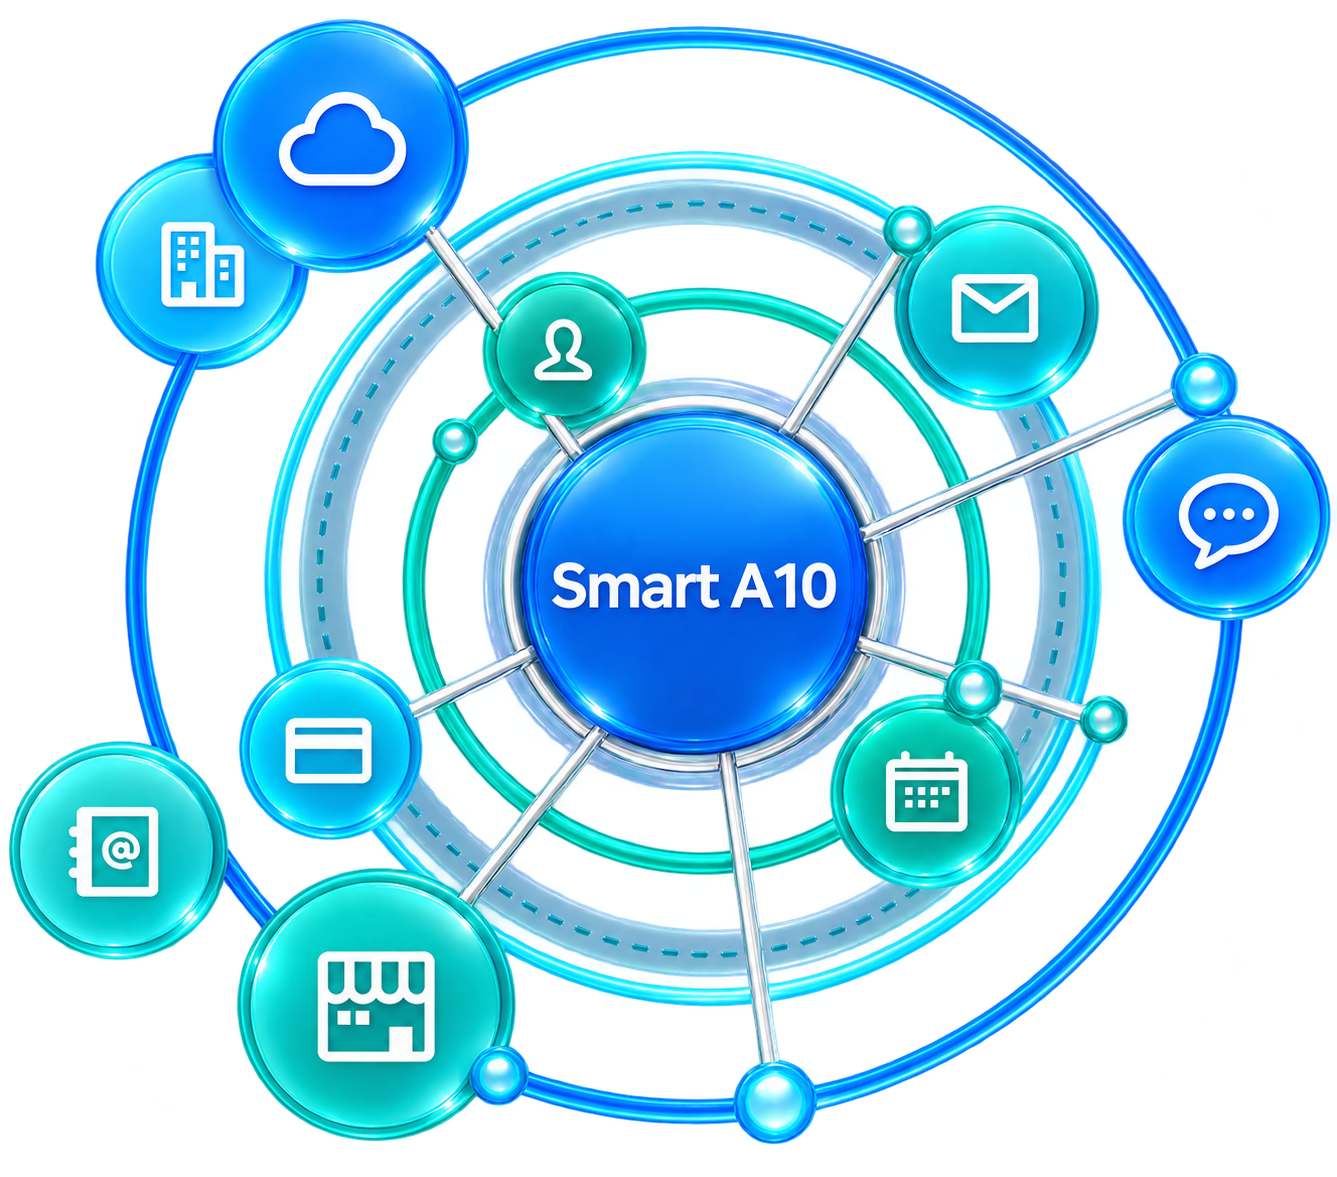
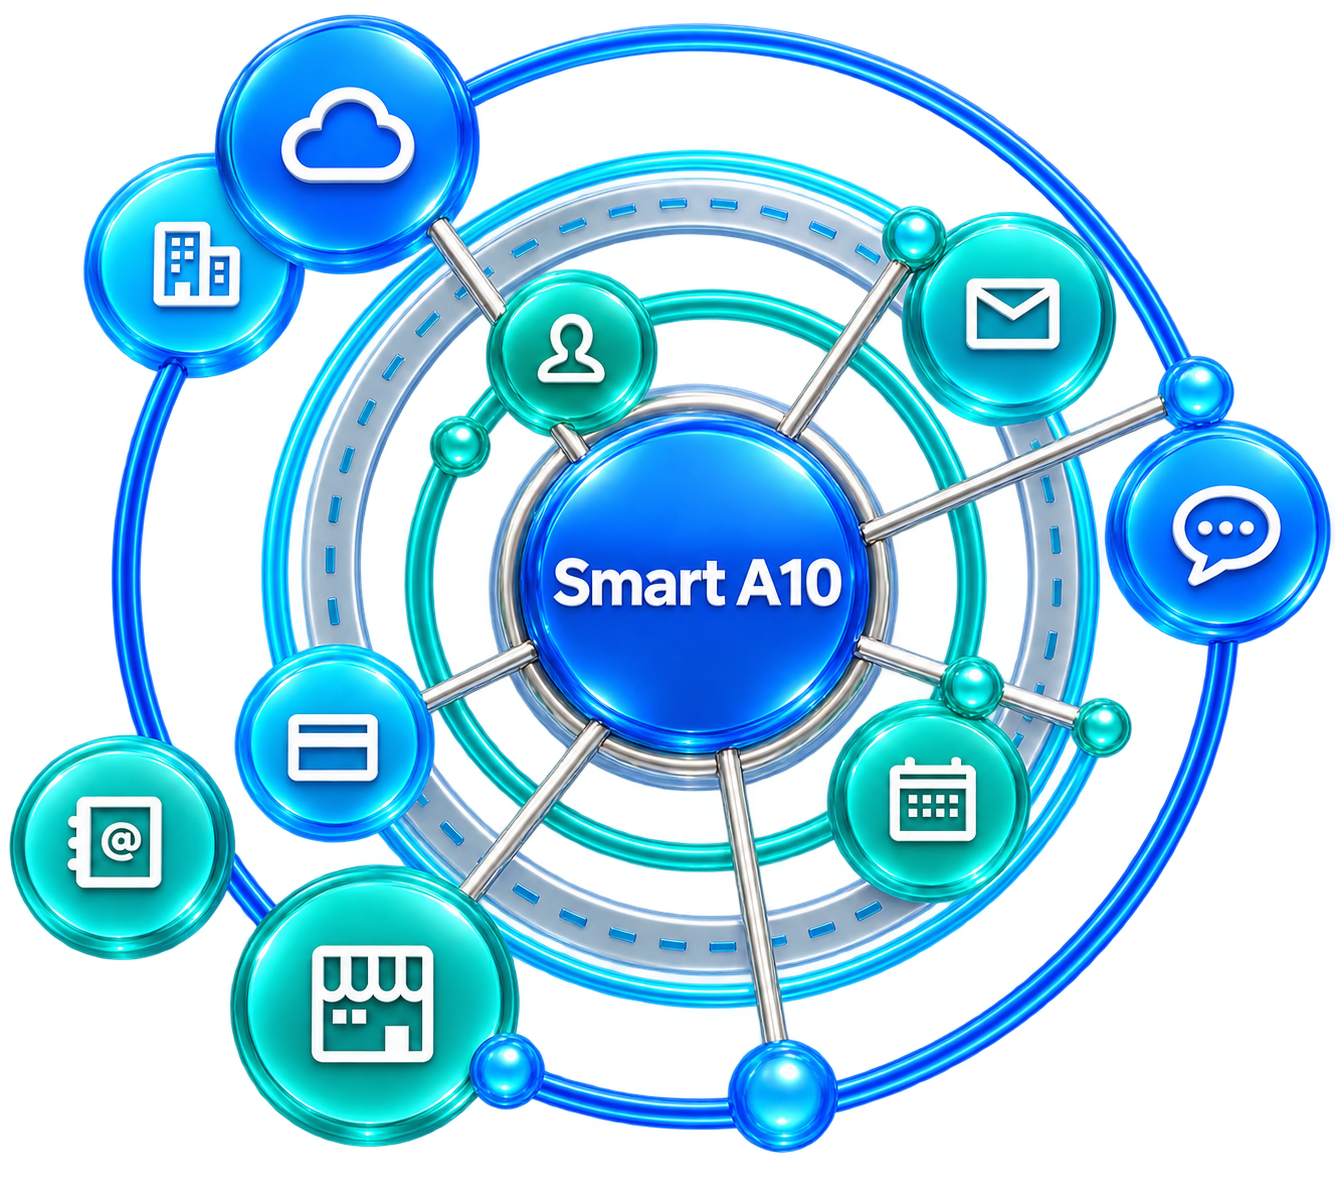
Add product image modals, home notice and refine service layouts

diff --git a/subpages/product/wehago/smart_A10.html b/subpages/product/wehago/smart_A10.html
@@ -389,7 +389,7 @@
                 </li>
                 <li>
                     <div class="inner sb-design-row sb-centered-feature" data-layout="visual-right">
-                        <div class="img"><div class="sb-generated-panel"><figure class="sb-faithful-reference"><a class="sb-screen-zoom" href="../../../assets/subpages/regenerated/ui-084.png" aria-label="다른 서비스들과 연결로 편리하게 제품 화면 크게 보기"><picture class="sb-frontal-picture"><source type="image/webp" srcset="../../../assets/subpages/regenerated/ui-084.webp"><img src="../../../assets/subpages/regenerated/ui-084.png" alt="다른 서비스들과 연결로 편리하게 제품 화면" loading="lazy" class="sb-frontal-screen" width="1337" height="1177"></picture></a></figure></div></div>
+                        <div class="img"><div class="sb-generated-panel"><figure class="sb-faithful-reference"><a class="sb-screen-zoom" href="../../../assets/subpages/regenerated/ui-084.png" aria-label="다른 서비스들과 연결로 편리하게 제품 화면 크게 보기"><picture class="sb-frontal-picture"><source type="image/webp" srcset="../../../assets/subpages/regenerated/ui-084.webp"><img src="../../../assets/subpages/regenerated/ui-084.png" alt="다른 서비스들과 연결로 편리하게 제품 화면" loading="lazy" class="sb-frontal-screen" width="1335" height="1178"></picture></a></figure></div></div>
                         <div class="txt">
                             <strong>다른 서비스들과 연결로 편리하게</strong>
                             <b>
@@ -442,7 +442,7 @@
                 <div class="swiper-pagination"></div>
             </div>
         </div>
-        <section class="sb-wehago-connected"><h2>다른 서비스들과 연동된 편리함!</h2><p>WEHAGO의 서비스들과 연결되어 더욱 편리한 경영관리로 <br> 다양한 업무를 빠르고 효율적으로 처리할 수 있습니다.</p><div class="sb-service-tags"><span>전자결재 연동</span><span>문서 관리</span><span>메신저</span><span>경비청구</span><span>근태관리</span></div><div class="sb-wehago-ecosystem"><picture><source type="image/webp" srcset="../../../assets/subpages/regenerated/ui-084.webp"><img src="../../../assets/subpages/regenerated/ui-084.png" width="1337" height="1177" loading="lazy" alt="Smart A10을 중심으로 WEHAGO 업무 서비스가 연결되는 3D 에셋"></picture></div><a class="cta sb-product-cta sb-wehago-leaflet" href="../../../assets/documents/wehago-services-2026.pdf">리플렛 자세히 보기</a></section><div class="wehago_05">
+        <section class="sb-wehago-connected"><h2>다른 서비스들과 연동된 편리함!</h2><p>WEHAGO의 서비스들과 연결되어 더욱 편리한 경영관리로 <br> 다양한 업무를 빠르고 효율적으로 처리할 수 있습니다.</p><div class="sb-service-tags"><span>전자결재 연동</span><span>문서 관리</span><span>메신저</span><span>경비청구</span><span>근태관리</span></div><div class="sb-wehago-ecosystem"><picture><source type="image/webp" srcset="../../../assets/subpages/regenerated/ui-084.webp"><img src="../../../assets/subpages/regenerated/ui-084.png" width="1335" height="1178" loading="lazy" alt="Smart A10을 중심으로 WEHAGO 업무 서비스가 연결되는 3D 에셋"></picture></div><a class="cta sb-product-cta sb-wehago-leaflet" href="../../../assets/documents/wehago-services-2026.pdf">리플렛 자세히 보기</a></section><div class="wehago_05">
             <div class="cont_txt">
                 <b>WEHAGO VIDEO</b>
                 <h5>

diff --git a/renewal/products-figma.css b/renewal/products-figma.css
@@ -405,12 +405,15 @@
 @media(max-width:600px){.sb-pms-workflow-3d>figcaption{grid-template-columns:repeat(2,minmax(0,1fr));gap:24px 16px}}
 .sb-figma-product #soft-bank-renewal .sb-pms-screen-mockup .sb-laptop-base{width:100%!important;left:0!important;right:0!important;margin-left:0!important;transform:none!important}
 /* Smart A10 solution banners: four on wide screens, three on compact desktops. */
-.sb-page-product-wehago-smart_a10 #soft-bank-renewal .sb-content .wehago_02>ul{grid-template-columns:repeat(4,minmax(0,1fr))}
-.sb-page-product-wehago-smart_a10 #soft-bank-renewal .sb-content .wehago_02>ul>.contBox{min-width:0}
-@media(max-width:1199px){.sb-page-product-wehago-smart_a10 #soft-bank-renewal .sb-content .wehago_02>ul{grid-template-columns:repeat(3,minmax(0,1fr))}}
-@media(max-width:899px){.sb-page-product-wehago-smart_a10 #soft-bank-renewal .sb-content .wehago_02>ul{grid-template-columns:repeat(2,minmax(0,1fr))}}
-@media(max-width:599px){.sb-page-product-wehago-smart_a10 #soft-bank-renewal .sb-content .wehago_02>ul{grid-template-columns:1fr}}
+:is(.sb-page-product-wehago-smart_a10,.sb-page-product-wehago-cooperation,.sb-page-product-wehago-extraservice) #soft-bank-renewal .sb-content .wehago_02>ul{grid-template-columns:repeat(4,minmax(0,1fr))}
+:is(.sb-page-product-wehago-smart_a10,.sb-page-product-wehago-cooperation,.sb-page-product-wehago-extraservice) #soft-bank-renewal .sb-content .wehago_02>ul>.contBox{min-width:0}
+@media(max-width:1199px){:is(.sb-page-product-wehago-smart_a10,.sb-page-product-wehago-cooperation,.sb-page-product-wehago-extraservice) #soft-bank-renewal .sb-content .wehago_02>ul{grid-template-columns:repeat(3,minmax(0,1fr))}}
+@media(max-width:899px){:is(.sb-page-product-wehago-smart_a10,.sb-page-product-wehago-cooperation,.sb-page-product-wehago-extraservice) #soft-bank-renewal .sb-content .wehago_02>ul{grid-template-columns:repeat(2,minmax(0,1fr))}}
+@media(max-width:599px){:is(.sb-page-product-wehago-smart_a10,.sb-page-product-wehago-cooperation,.sb-page-product-wehago-extraservice) #soft-bank-renewal .sb-content .wehago_02>ul{grid-template-columns:1fr}}
 
 /* Three-card OmniEsol groups share a single desktop row. */
 .sb-page-product-omniesol #soft-bank-renewal .sb-content .omniesol .sb-three-card-row{width:100%;grid-template-columns:repeat(3,minmax(0,1fr));align-items:stretch}
 @media(max-width:760px){.sb-page-product-omniesol #soft-bank-renewal .sb-content .omniesol .sb-three-card-row{grid-template-columns:1fr}}
+
+/* Product image viewer uses the browser top layer for accessible focus trapping. */
+body.sb-image-open{overflow:hidden}.sb-image-trigger{cursor:zoom-in}.sb-image-trigger:focus-visible{outline:3px solid #2874ed;outline-offset:5px}.sb-image-dialog{width:max-content;max-width:96vw;max-height:94dvh;padding:50px 18px 14px;border:0;border-radius:16px;background:#fff;overflow:auto}.sb-image-dialog::backdrop{background:#122039c9}.sb-image-dialog>img{display:block;width:auto;height:auto;max-width:calc(96vw - 36px);max-height:calc(94dvh - 110px);object-fit:contain;margin:auto}.sb-image-close{position:absolute;right:16px;top:10px;border:0;border-radius:8px;background:#eef4ff;color:#214d88;padding:8px 14px;cursor:pointer}.sb-image-caption{text-align:center;margin:12px 0 0;font-size:14px;color:#53617a}

diff --git a/renewal/products-figma.js b/renewal/products-figma.js
@@ -1,4 +1,31 @@
 document.addEventListener('DOMContentLoaded',()=>{
+ if(document.body.classList.contains('sb-product')){
+  const dialog=document.createElement('dialog');
+  dialog.className='sb-image-dialog';dialog.setAttribute('aria-label','제품 이미지 크게 보기');
+  const close=document.createElement('button');close.type='button';close.className='sb-image-close';close.textContent='닫기 ×';
+  const image=document.createElement('img');
+  const caption=document.createElement('p');caption.className='sb-image-caption';
+  dialog.append(close,image,caption);document.body.append(dialog);
+  let trigger=null;
+  const open=(img,source)=>{
+   trigger=source;image.src=img.src;image.alt=img.alt||'제품 이미지';caption.textContent=image.alt;
+   dialog.showModal();document.body.classList.add('sb-image-open');close.focus();
+  };
+  close.addEventListener('click',()=>dialog.close());
+  dialog.addEventListener('click',e=>{if(e.target!==dialog)return;const r=dialog.getBoundingClientRect();if(e.clientX<r.left||e.clientX>r.right||e.clientY<r.top||e.clientY>r.bottom)dialog.close();});
+  dialog.addEventListener('close',()=>{document.body.classList.remove('sb-image-open');trigger?.focus({preventScroll:true});image.removeAttribute('src');});
+  document.querySelectorAll('.sb-content img,.sb-hero-asset').forEach(img=>{
+   if(img.closest('button')||img.alt===''||img.closest('.sb-product-heading,.sb-contact-banner'))return;
+   const link=img.closest('a');
+   // Keep product navigation and download links; intercept image-file links only.
+   if(link&&!/\.(png|webp|jpe?g|gif|svg)(?:[?#]|$)/i.test(link.href))return;
+   const target=link||img;
+   if(!link){target.tabIndex=0;target.setAttribute('role','button');target.setAttribute('aria-label',(img.alt||'제품 이미지')+' 크게 보기');}
+   target.classList.add('sb-image-trigger');target.setAttribute('aria-haspopup','dialog');
+   target.addEventListener('click',e=>{if(e.ctrlKey||e.metaKey||e.shiftKey||e.altKey)return;e.preventDefault();open(img,target);});
+   if(!link)target.addEventListener('keydown',e=>{if(e.key==='Enter'||e.key===' '){e.preventDefault();open(img,target);}});
+  });
+ }
  const syncWidth=()=>document.documentElement.style.setProperty('--product-viewport',document.documentElement.clientWidth+'px');
  syncWidth();window.addEventListener('resize',syncWidth);
  // Short headings remain on one line; longer headings wrap naturally.

diff --git a/intro.js b/intro.js
@@ -1,4 +1,5 @@
 (() => {
+ const startIntro=()=>{
   const root=document.getElementById('soft-bank-renewal');
   if(!root||document.body.classList.contains('sb-renewal'))return;
   try{if(sessionStorage.getItem('softbank-intro-seen'))return;}catch{}
@@ -29,4 +30,24 @@
       const script=document.createElement('script');script.src='https://www.youtube.com/iframe_api';script.async=true;document.head.append(script);
     }
   }
+ };
+ // Announcements precede the video so two modal layers never compete for focus.
+ if(!document.querySelector('#soft-bank-renewal > main > .hero')||document.body.classList.contains('sb-renewal'))return;
+ const today=()=>new Intl.DateTimeFormat('en-CA',{timeZone:'Asia/Seoul',year:'numeric',month:'2-digit',day:'2-digit'}).format(new Date());
+ const storageKey='sb-holiday-notice-2026-09-hidden';
+ let hidden=false;try{hidden=localStorage.getItem(storageKey)===today();}catch{}
+ if(hidden){startIntro();return;}
+ const notice=document.createElement('dialog');notice.className='sb-home-notice';notice.setAttribute('aria-label','추석 휴무 안내: 9월 23일부터 9월 27일까지');
+ const visual=document.createElement('div');visual.className='sb-notice-visual';
+ const img=document.createElement('img');img.src='assets/holiday-notice.png';img.width=480;img.height=552;
+ img.alt='추석 휴무 안내. 9월 23일부터 9월 27일까지 휴무입니다. Amaranth10, Alpha, icube 기능 및 기술지원 문의는 9월 23일 오후 3시까지 접수 가능합니다. 제품 및 서비스 구매 문의는 icsu@duzon119.co.kr로 접수 부탁드립니다. 아이원소프트뱅크.';
+ visual.append(img);
+ const actions=document.createElement('div');actions.className='sb-notice-actions';
+ const hide=document.createElement('button');hide.type='button';hide.textContent='오늘 하루 동안 열지 않기';
+ const close=document.createElement('button');close.type='button';close.textContent='닫기';
+ actions.append(hide,close);notice.append(visual,actions);document.body.append(notice);
+ hide.addEventListener('click',()=>{try{localStorage.setItem(storageKey,today());}catch{}notice.close();});
+ close.addEventListener('click',()=>notice.close());
+ notice.addEventListener('close',()=>{document.body.classList.remove('sb-notice-open');notice.remove();startIntro();},{once:true});
+ document.body.classList.add('sb-notice-open');notice.showModal();close.focus();
 })();

diff --git a/renewal/ifrs18.css b/renewal/ifrs18.css
@@ -33,3 +33,4 @@
 .ifrs-content :is(.ifrs-change,.ifrs-ready,.ifrs-contact)>:is(h2,p,.ifrs-eyebrow),.ifrs-ready .ifrs-timeline :is(h3,p,article>span),.ifrs-ready .ifrs-source{color:#435f91}
 @media(max-width:1000px){.ifrs-content .ifrs-benefits,.ifrs-timeline{grid-template-columns:1fr}.ifrs-benefits article{padding:32px}.ifrs-timeline{gap:20px}}
 @media(max-width:760px){.sb-page-product-ifrs18 #soft-bank-renewal .ifrs-content{padding:0 20px 64px}.ifrs-content section{padding:64px 0}.ifrs-process-grid,.ifrs-change-grid,.ifrs-downloads{grid-template-columns:1fr}.ifrs-content .ifrs-change,.ifrs-content .ifrs-ready{padding:42px 20px;border-radius:22px}.ifrs-content h3{font-size:28px}.ifrs-process-grid article{padding:30px 20px}.ifrs-screen{padding:5px;border-radius:14px}.ifrs-screen img{border-radius:9px}.ifrs-content p br{display:none}.ifrs-content .ifrs-feature{padding-top:48px}.ifrs-categories span{padding:10px 20px}.ifrs-actions .cta{width:100%}}
+.sb-page-product-ifrs18 #soft-bank-renewal .ifrs-source,.sb-page-product-ifrs18 #soft-bank-renewal .ifrs-downloads a>span:last-child{display:inline-flex;align-items:center;justify-content:center;align-self:center;min-height:50px;padding:13px 28px;border-radius:999px;background:#4b90e2;color:#fff;font-size:16px;font-weight:600;line-height:1.5;text-decoration:none;transition:background .2s,box-shadow .2s}.sb-page-product-ifrs18 #soft-bank-renewal .ifrs-source:hover,.sb-page-product-ifrs18 #soft-bank-renewal .ifrs-downloads a:hover>span:last-child{background:#347ed5;box-shadow:0 6px 18px #347ed529}.sb-page-product-ifrs18 #soft-bank-renewal .ifrs-source:focus-visible,.sb-page-product-ifrs18 #soft-bank-renewal .ifrs-downloads a:focus-visible{outline:3px solid #245c9f;outline-offset:4px}

diff --git a/styles.css b/styles.css
@@ -277,3 +277,4 @@ body.modal-open {overflow:hidden}
 
 /* Disable CSS smooth scrolling only while the home paging controller owns movement. */
 html.sb-home-paging{scroll-behavior:auto!important}
+body.sb-notice-open{overflow:hidden}.sb-home-notice{padding:0;border:0;width:min(480px,calc(100vw - 28px));max-height:94dvh;overflow:auto;background:#fff7f0;border-radius:6px;box-shadow:0 20px 80px #0004}.sb-home-notice::backdrop{background:#10203d99}.sb-notice-visual{width:100%;aspect-ratio:480/497;overflow:hidden}.sb-notice-visual img{display:block;width:100%;height:auto}.sb-notice-actions{display:flex;background:#4398e8;position:sticky;bottom:0}.sb-notice-actions button{flex:1;border:0;background:transparent;color:#fff;padding:18px 10px;cursor:pointer;font-size:14px;font-weight:700}.sb-notice-actions button:first-child{flex:2}.sb-notice-actions button:focus-visible{outline:3px solid #173e78;outline-offset:-4px}

diff --git a/app.js b/app.js
@@ -342,7 +342,7 @@
   if (footer) sections.push(footer);
   const reduced = matchMedia('(prefers-reduced-motion: reduce)');
   let frame = 0, active = false, lastWheel = 0, delta = 0, direction = 0, refreshTimer;
-  const blocked = () => root.inert || document.body.matches('.intro-open,.modal-open') ||
+  const blocked = () => root.inert || document.body.matches('.intro-open,.modal-open,.sb-notice-open') ||
     !!root.querySelector('.gnb.open,dialog[open],.legal-modal.open');
   const cancel = () => {
     cancelAnimationFrame(frame);
